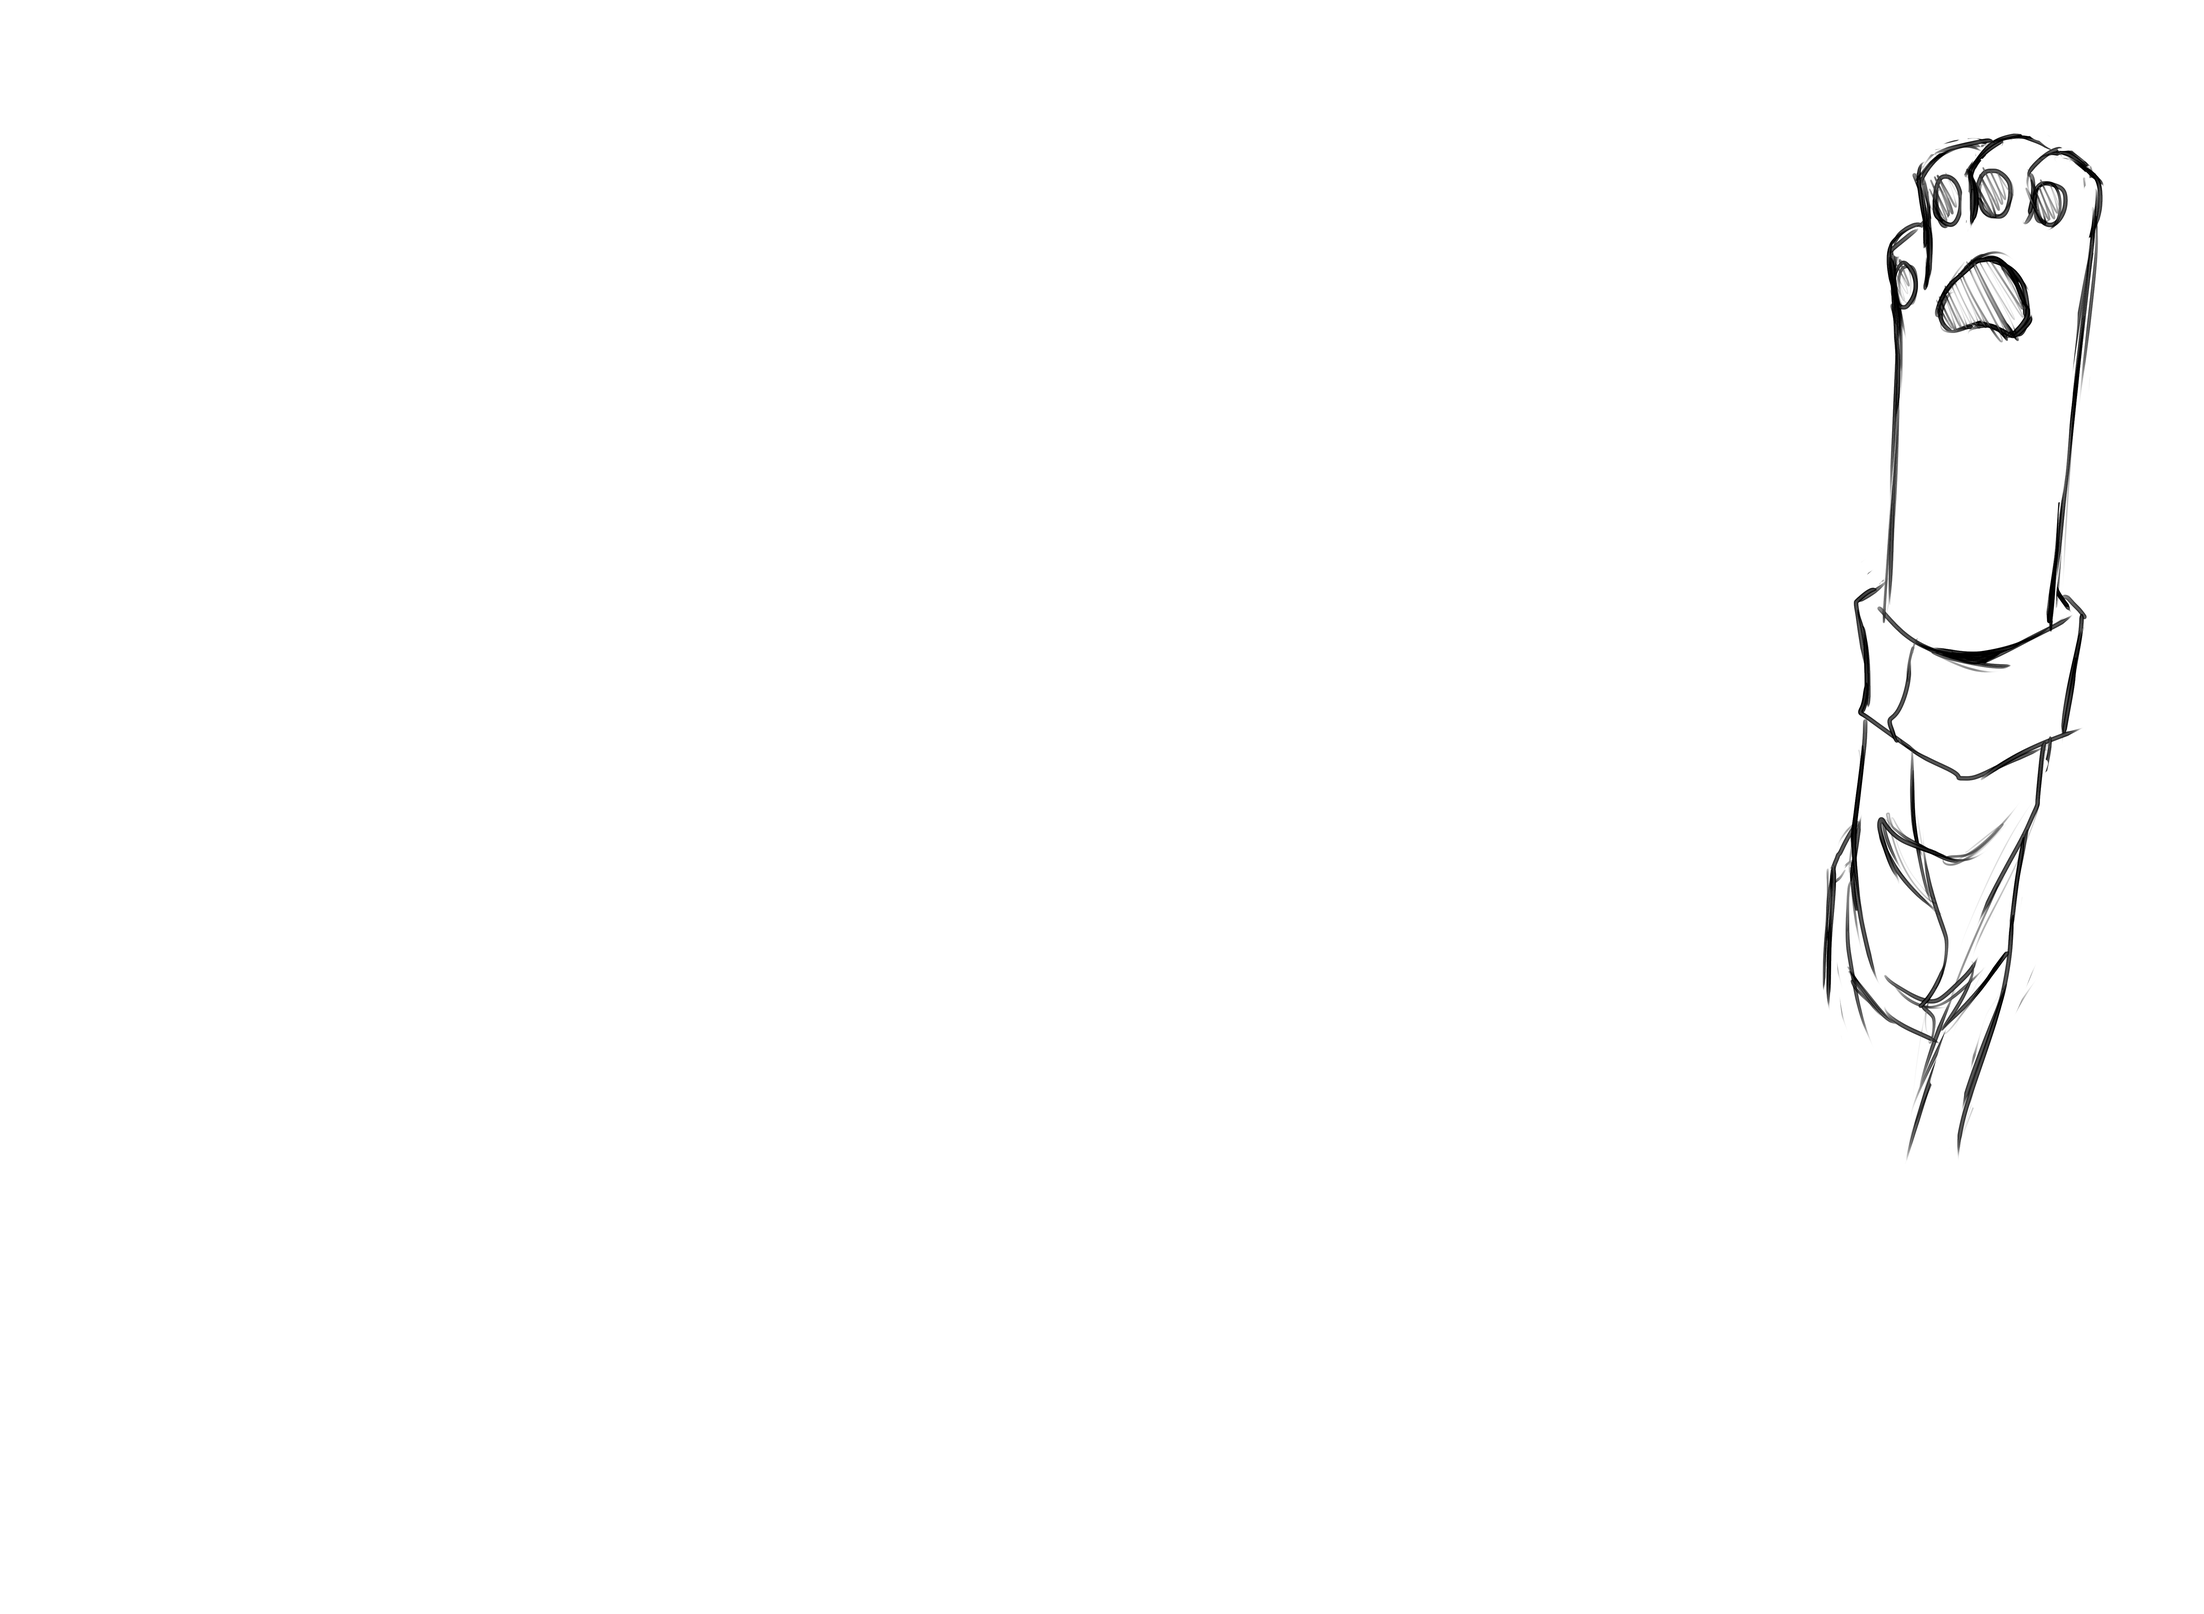
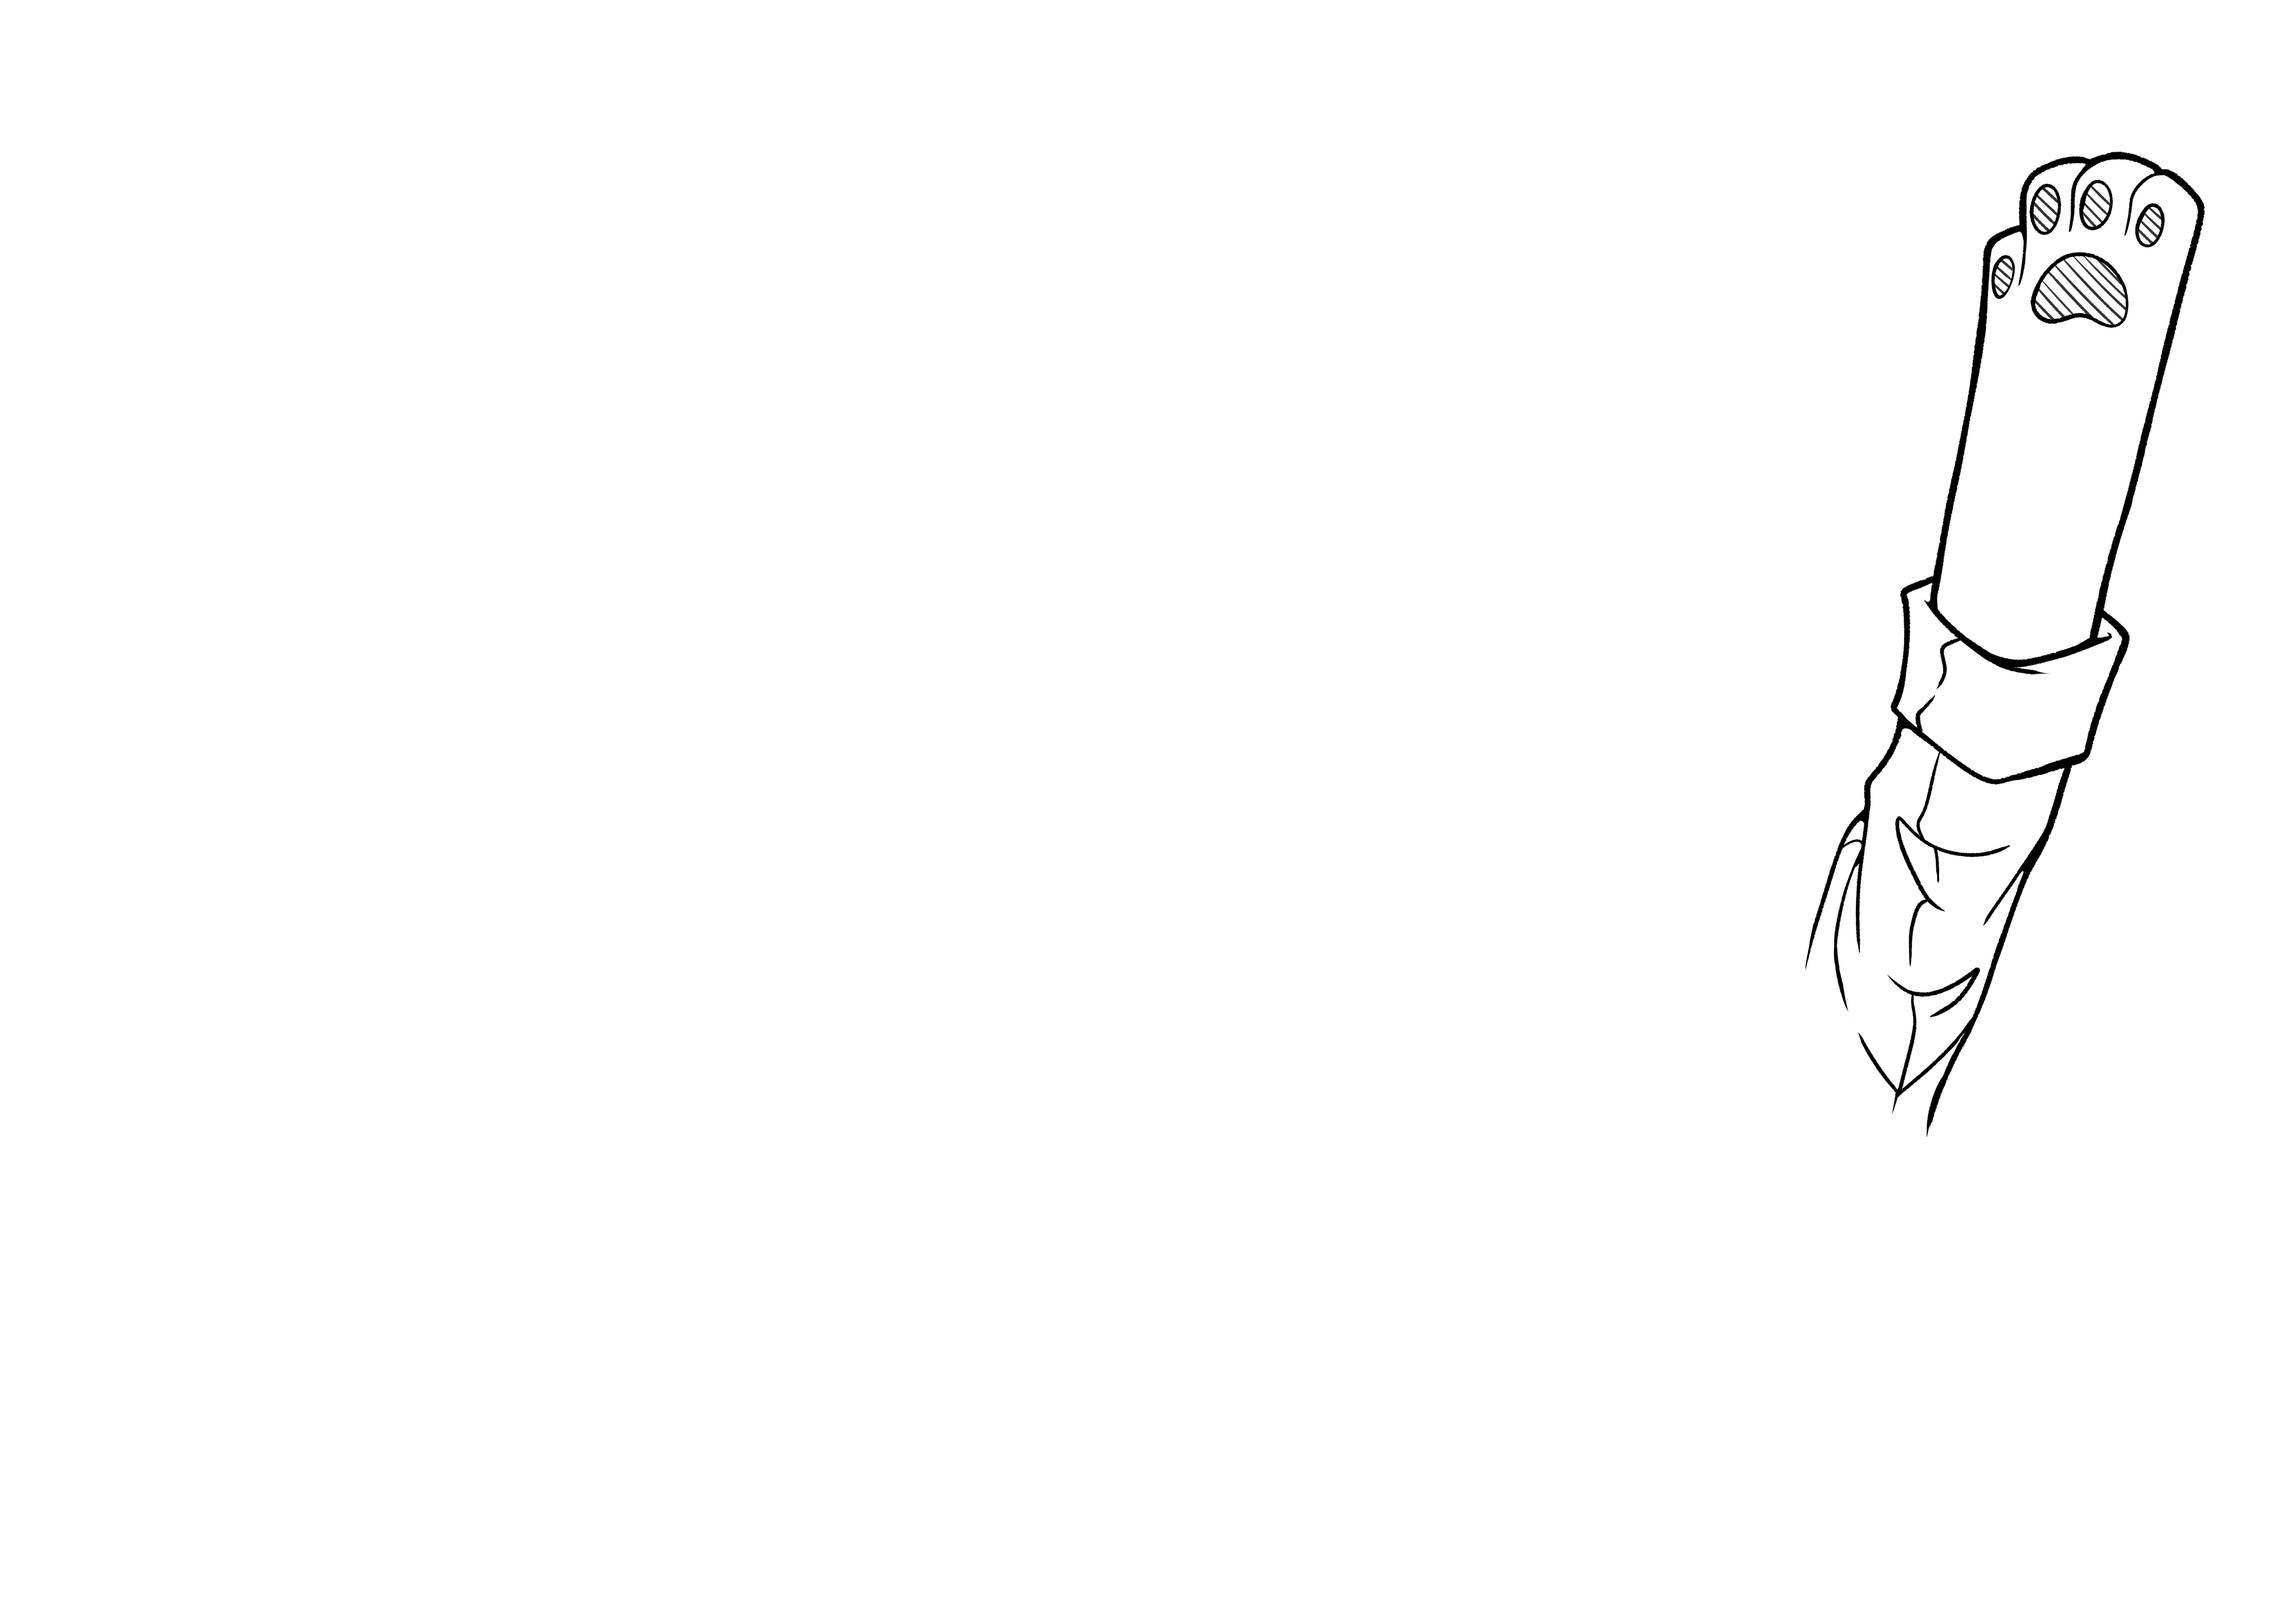
add clean images for main animation

Changed region(s): [[0.7786, 0.0625, 0.9655, 0.6874]]

diff --git a/components/catibor-animation/CatiborAnimation.tsx b/components/catibor-animation/CatiborAnimation.tsx
@@ -9,13 +9,12 @@ const getKey = (event: KeyboardEvent) => {
 }
 
 type CatiborAnimationProps = {
-  className?: string
   type: string
 }
 
 const imageClassName = 'absolute bottom-0 right-0 max-h-full object-right-bottom object-contain'
 
-const CatiborAnimation = ({className = '', type}: CatiborAnimationProps) => {
+const CatiborAnimation = ({type}: CatiborAnimationProps) => {
   const [leftPaw, setLeftPaw] = useState(0)
   const [rightPaw, setRightPaw] = useState(0)
   let left = 0
@@ -79,8 +78,8 @@ const CatiborAnimation = ({className = '', type}: CatiborAnimationProps) => {
   const isFinish = type === 'finish'
 
   return (
-    <div className='border-2 absolute bottom-0 right-0 max-w-[760px] w-full'>
-      <div className='border-b-2 w-full top-0 left-0 text-12 px-16 py-4 h-52 flex items-center'>
+    <div className='border-2 absolute bottom-0 right-0 max-w-[740px] w-[calc(100%_-_32px)] max-h-[calc(100vh_-_56px_-_56px_-_32px)] overflow-hidden flex flex-col'>
+      <div className='border-b-2 w-full top-0 left-0 text-12 px-16 py-4 h-52 flex items-center shrink-0'>
         <p>
           catibor.exe
           {isFinish && <span className='ml-4'>(not working)</span>}
@@ -89,51 +88,55 @@ const CatiborAnimation = ({className = '', type}: CatiborAnimationProps) => {
           X
         </button>
       </div>
-      <div className={className}>
-        <div className='relative flex justify-end items-end'>
-          <Image
-            className='max-h-full object-right-bottom object-contain'
-            src='/typing-animation/table.png'
-            alt=''
-            width={701}
-            height={496}/>
-          <Image
-            className={`${imageClassName} ${!isFinish ? 'opacity-0' : 'opacity-100'}`}
-            src='/typing-animation/sleep.png'
-            alt=''
-            width={701}
-            height={496}/>
-          <Image
-            className={`${imageClassName} ${(rightPaw || isFinish) ? 'opacity-0' : 'opacity-100'}`}
-            src='/typing-animation/right_up.png'
-            alt=''
-            width={701}
-            height={496}/>
-          <Image
-            className={`${imageClassName} ${(!rightPaw || isFinish) ? 'opacity-0' : 'opacity-100'}`}
-            src='/typing-animation/right_down.png'
-            alt=''
-            width={701}
-            height={496}/>
-          <Image
-            className={`${imageClassName} ${isFinish ? 'opacity-0' : 'opacity-100'}`}
-            src='/typing-animation/body.png'
-            alt=''
-            width={701}
-            height={496}/>
-          <Image
-            className={`${imageClassName} ${(leftPaw || isFinish) ? 'opacity-0' : 'opacity-100'}`}
-            src='/typing-animation/left_up.png'
-            alt=''
-            width={701}
-            height={496}/>
-          <Image
-            className={`${imageClassName} ${(!leftPaw || isFinish) ? 'opacity-0' : 'opacity-100'}`}
-            src='/typing-animation/left_down.png'
-            alt=''
-            width={701}
-            height={496}/>
-        </div>
+      <div className='pointer-events-none z-0 max-h-full grow relative flex justify-end items-end'>
+        <Image
+          className='max-h-full object-right-bottom object-contain'
+          src='/typing-animation/table.png'
+          alt=''
+          width={736}
+          height={496}/>
+        <Image
+          className={`${imageClassName} ${!isFinish ? 'opacity-0' : 'opacity-100'}`}
+          src='/typing-animation/sleep.png'
+          alt=''
+          width={701}
+          height={496}/>
+        <Image
+          className={`${imageClassName} ${(rightPaw || isFinish) ? 'opacity-0' : 'opacity-100'}`}
+          src='/typing-animation/right_up.png'
+          alt=''
+          width={701}
+          height={496}/>
+        <Image
+          className={`${imageClassName} ${(!rightPaw || isFinish) ? 'opacity-0' : 'opacity-100'}`}
+          src='/typing-animation/right_down.png'
+          alt=''
+          width={701}
+          height={496}/>
+        <Image
+          className={`${imageClassName} ${isFinish ? 'opacity-0' : 'opacity-100'}`}
+          src='/typing-animation/body.png'
+          alt=''
+          width={701}
+          height={496}/>
+        <Image
+          className={`${imageClassName} ${(leftPaw || isFinish) ? 'opacity-0' : 'opacity-100'}`}
+          src='/typing-animation/left_up.png'
+          alt=''
+          width={701}
+          height={496}/>
+        <Image
+          className={`${imageClassName} ${(!leftPaw || isFinish) ? 'opacity-0' : 'opacity-100'}`}
+          src='/typing-animation/left_down.png'
+          alt=''
+          width={701}
+          height={496}/>
+        <Image
+          className={`${imageClassName} ${isFinish ? 'opacity-0' : 'opacity-100'}`}
+          src='/typing-animation/whiskers.png'
+          alt=''
+          width={701}
+          height={496}/>
       </div>
     </div>
   )

diff --git a/components/layout/Footer.tsx b/components/layout/Footer.tsx
@@ -1,5 +1,4 @@
 import Link from 'next/link';
-import Image from "next/image";
 
 const footerLinkClassNames = 'h-full flex items-center focus:outline-primary-500 outline-offset-4 gap-4'
 
@@ -14,11 +13,9 @@ const Footer = () => {
 
         <div className='flex gap-16 h-full'>
           <Link className={footerLinkClassNames} href='https://t.me/addstickers/Catibor' target='_blank'>
-            <Image className='h-24 w-24' src='/typing-animation/sticker.png' alt='' width={64} height={64} />
             TG stickers
           </Link>
           <Link className={footerLinkClassNames} href='https://aspirity.ru/' target='_blank'>
-            <Image className='h-24 w-24' src='/typing-animation/aspirity.png' alt='' width={64} height={64} />
             Aspirity
           </Link>
         </div>

diff --git a/components/layout/Header.tsx b/components/layout/Header.tsx
@@ -1,5 +1,4 @@
 import Link from 'next/link'
-import Image from "next/image";
 
 const headerLinkClassNames = 'h-full flex items-center focus:outline-primary-500 outline-offset-4 gap-4'
 
@@ -14,11 +13,9 @@ const Header = () => {
 
         <div className='flex gap-16 h-full'>
           <Link className={headerLinkClassNames} href='/statistics'>
-            <Image className='h-24 w-24' src='/typing-animation/achivment.png' alt='' width={64} height={64} />
             My stats
           </Link>
           <Link className={headerLinkClassNames} href='https://github.com/dragoncharlie/catibor-typing/issues' target='_blank'>
-            <Image className='h-24 w-24' src='/typing-animation/bug.png' alt='' width={64} height={64} />
             Bug!
           </Link>
         </div>

diff --git a/components/email/EmailFinish.tsx b/components/email/EmailFinish.tsx
@@ -1,5 +1,4 @@
 import Tooltip from "@/components/Tooltip";
-import Image from "next/image";
 
 type EmailFinishProps = {
   stat: {
@@ -17,7 +16,6 @@ const EmailFinish = ({stat: {accuracy, time, cpm, wpm, errors}, onRestart}: Emai
 
   return (
     <div className='flex flex-col m-auto p-16 max-w-[320px] w-full items-center'>
-      <Image className='h-64 object-contain mb-12' src='/typing-animation/letter.png' alt='' width={256} height={200} />
       <p className='mb-24 text-18 text-center'>Meooowray, <br/> {'the e-mail\'s been sent!'}</p>
       <div className='flex gap-8 w-full'>
         <div className='flex flex-col gap-8 mx-auto w-1/2'>

diff --git a/app/page.tsx b/app/page.tsx
@@ -23,8 +23,7 @@ const Home = () => {
             {isStarted && <EmailGame setAnimationType={setAnimationType} stopGame={stopGame} />}
           </EmailWrap>
         </div>
-
-          <CatiborAnimation className='pointer-events-none z-0 max-h-full flex justify-end' type={animationType}/>
+          <CatiborAnimation type={animationType}/>
       </div>
     </div>
   )

diff --git a/app/globals.css b/app/globals.css
@@ -11,6 +11,14 @@
     @apply px-16 md:px-32 mx-auto !max-w-[1280px]
   }
 
+  ::-moz-selection { /* Code for Firefox */
+    @apply bg-primary-500 text-surface-50
+  }
+
+  ::selection {
+    @apply bg-primary-500 text-surface-50
+  }
+
   a:hover,
   a:focus {
     @apply text-primary-500
